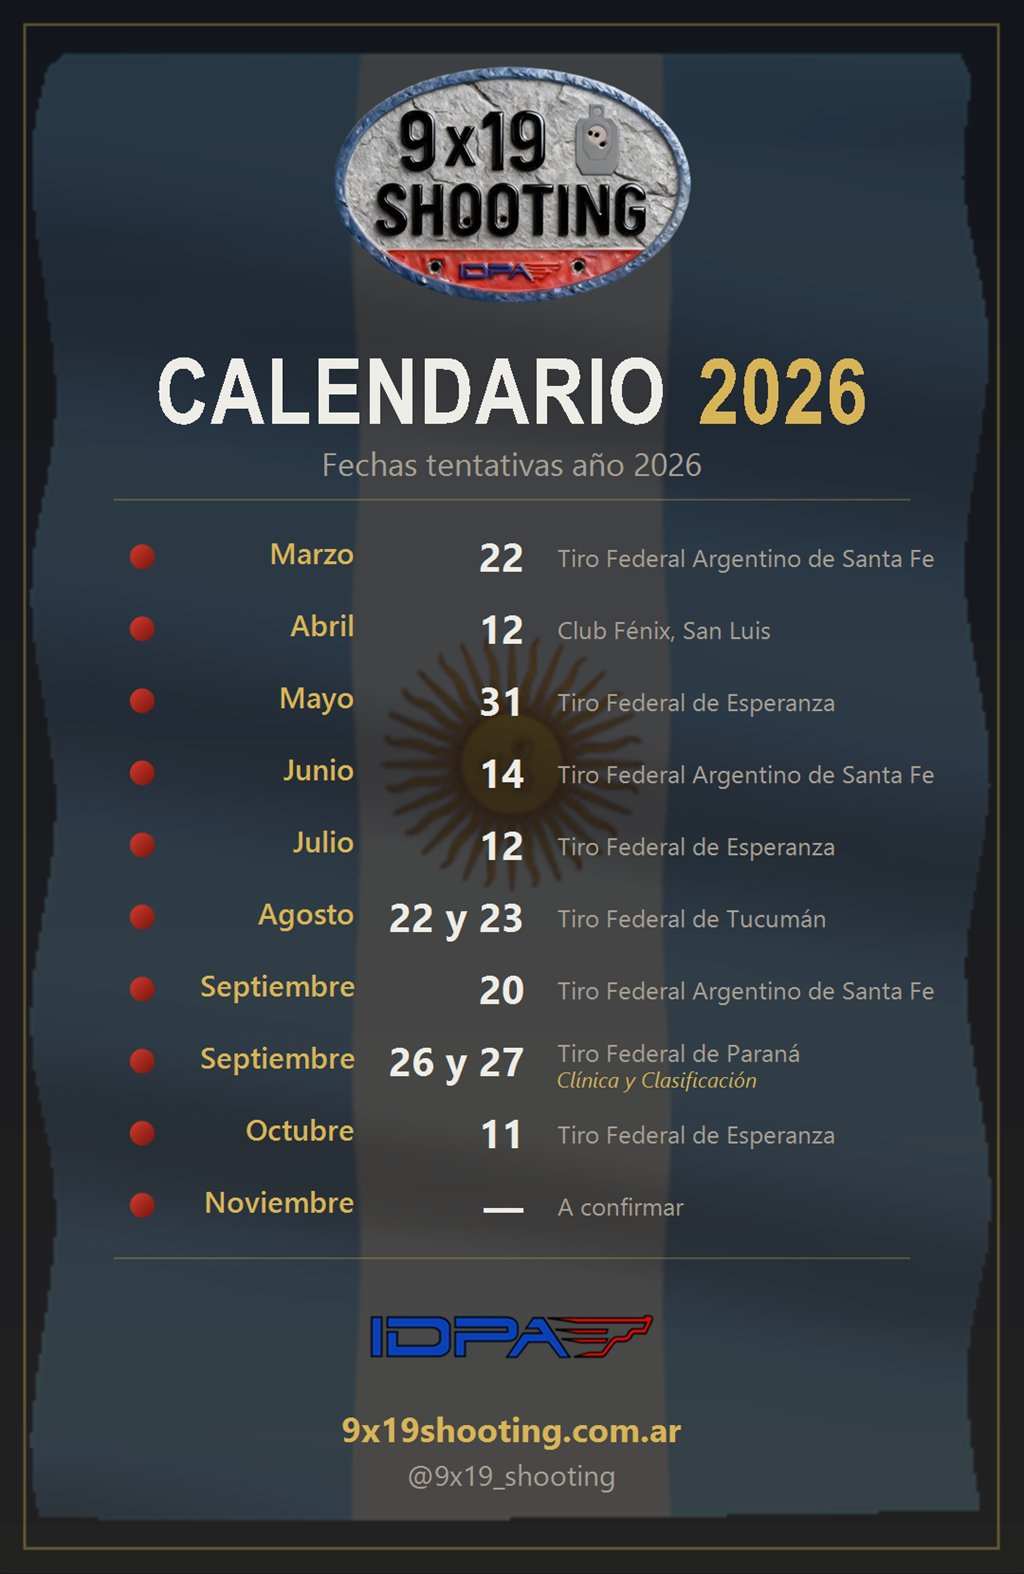
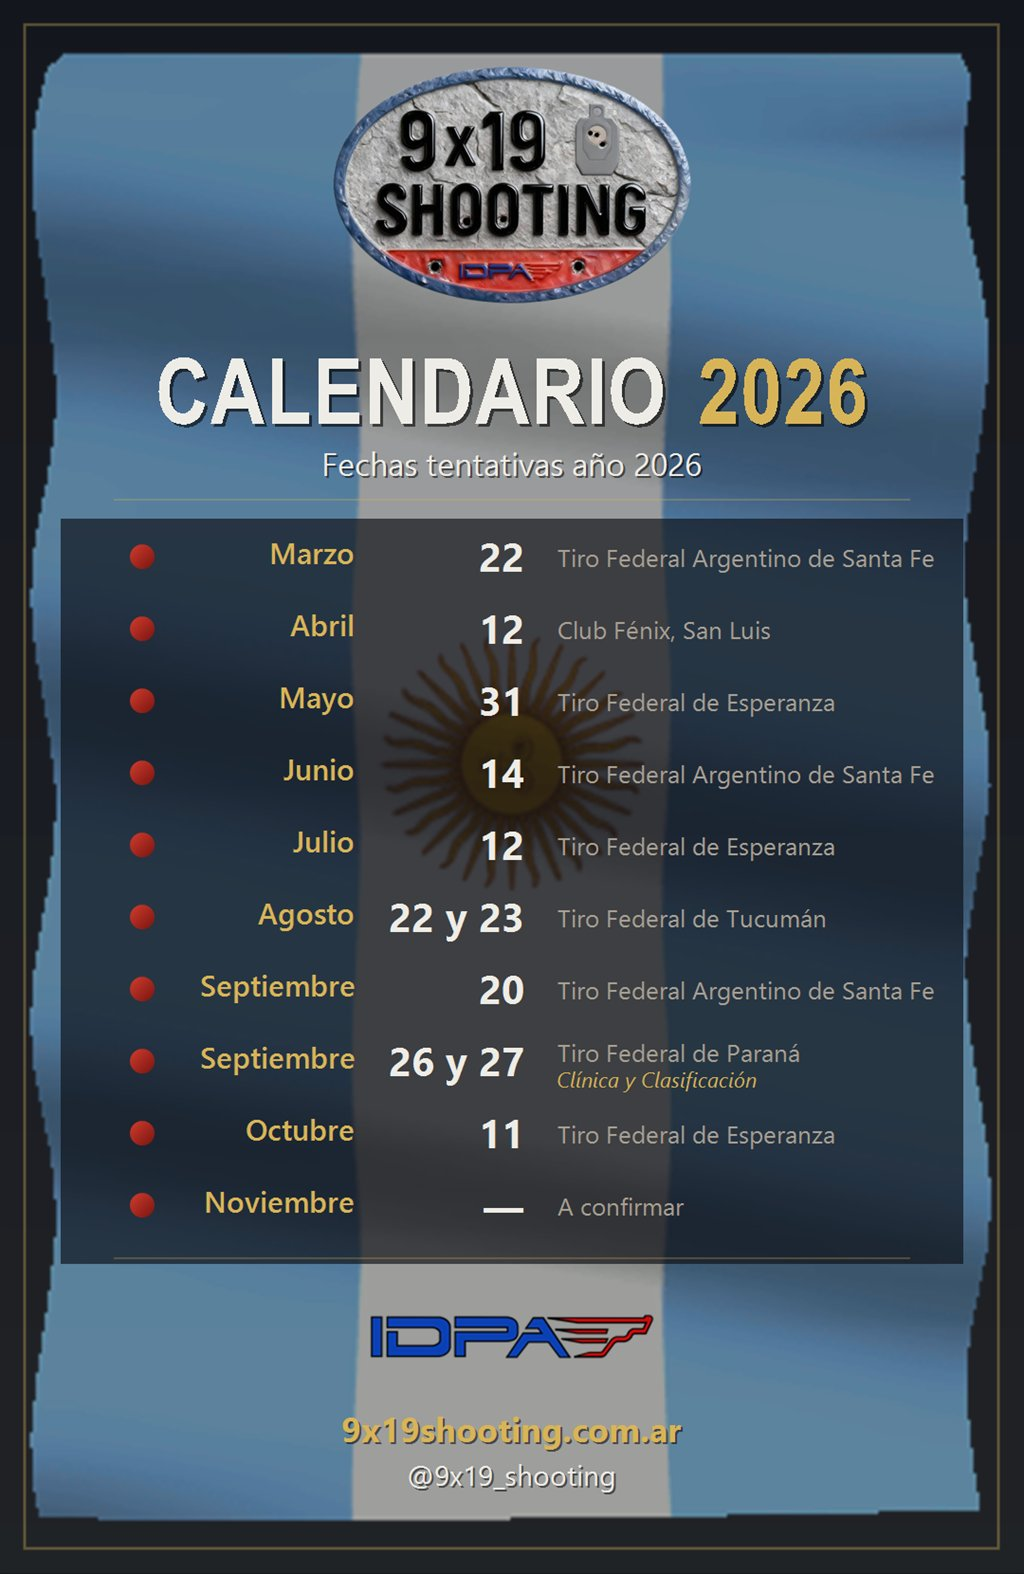
Inscripcion abierta para la quinta fecha, y el calendario con la bandera
La coronacion del 11 de octubre en Esperanza ya tiene su formulario: el
rotulo pasa a ser el boton y suma su codigo QR.

El calendario queda con la bandera bien visible y un panel oscuro detras
de las fechas, en vez del velo que aplanaba los pliegues. Los textos que
caen sobre la franja blanca llevan sombra.

diff --git a/index.html b/index.html
@@ -235,8 +235,10 @@
           <span class="mes">de octubre</span>
           <span class="faltan"></span>
 
-          <!-- Cuando esté el formulario, va acá el mismo bloque .qr que
-               tienen las otras fechas, con assets/qr/esperanza.png -->
+          <div class="qr">
+            <img src="assets/qr/esperanza.png" alt="Código QR del formulario de inscripción" loading="lazy">
+            <span>Escaneá para inscribirte</span>
+          </div>
         </div>
 
         <div class="que">
@@ -255,10 +257,8 @@
           </p>
 
           <div class="acciones">
-            <!-- Cuando llegue el enlace: cambiar el <span> por
-                 <a class="boton principal" href="…" target="_blank" rel="noopener">Inscribirme ↗</a>
-                 y generar su QR con scripts/qr.py -->
-            <span class="boton pendiente">Inscripción: en breve</span>
+            <a class="boton principal" href="https://form.jotform.com/262246237073657"
+               target="_blank" rel="noopener">Inscribirme ↗</a>
           </div>
         </div>
       </article>

diff --git a/scripts/qr.py b/scripts/qr.py
@@ -17,6 +17,7 @@ fechas = [
     ('tucuman',  'https://form.jotform.com/260535458428665'),
     ('santa-fe', 'https://form.jotform.com/260783817028665'),
     ('parana',   'https://form.jotform.com/253155748498674'),
+    ('esperanza','https://form.jotform.com/262246237073657'),
 ]
 
 for nombre, url in fechas:
